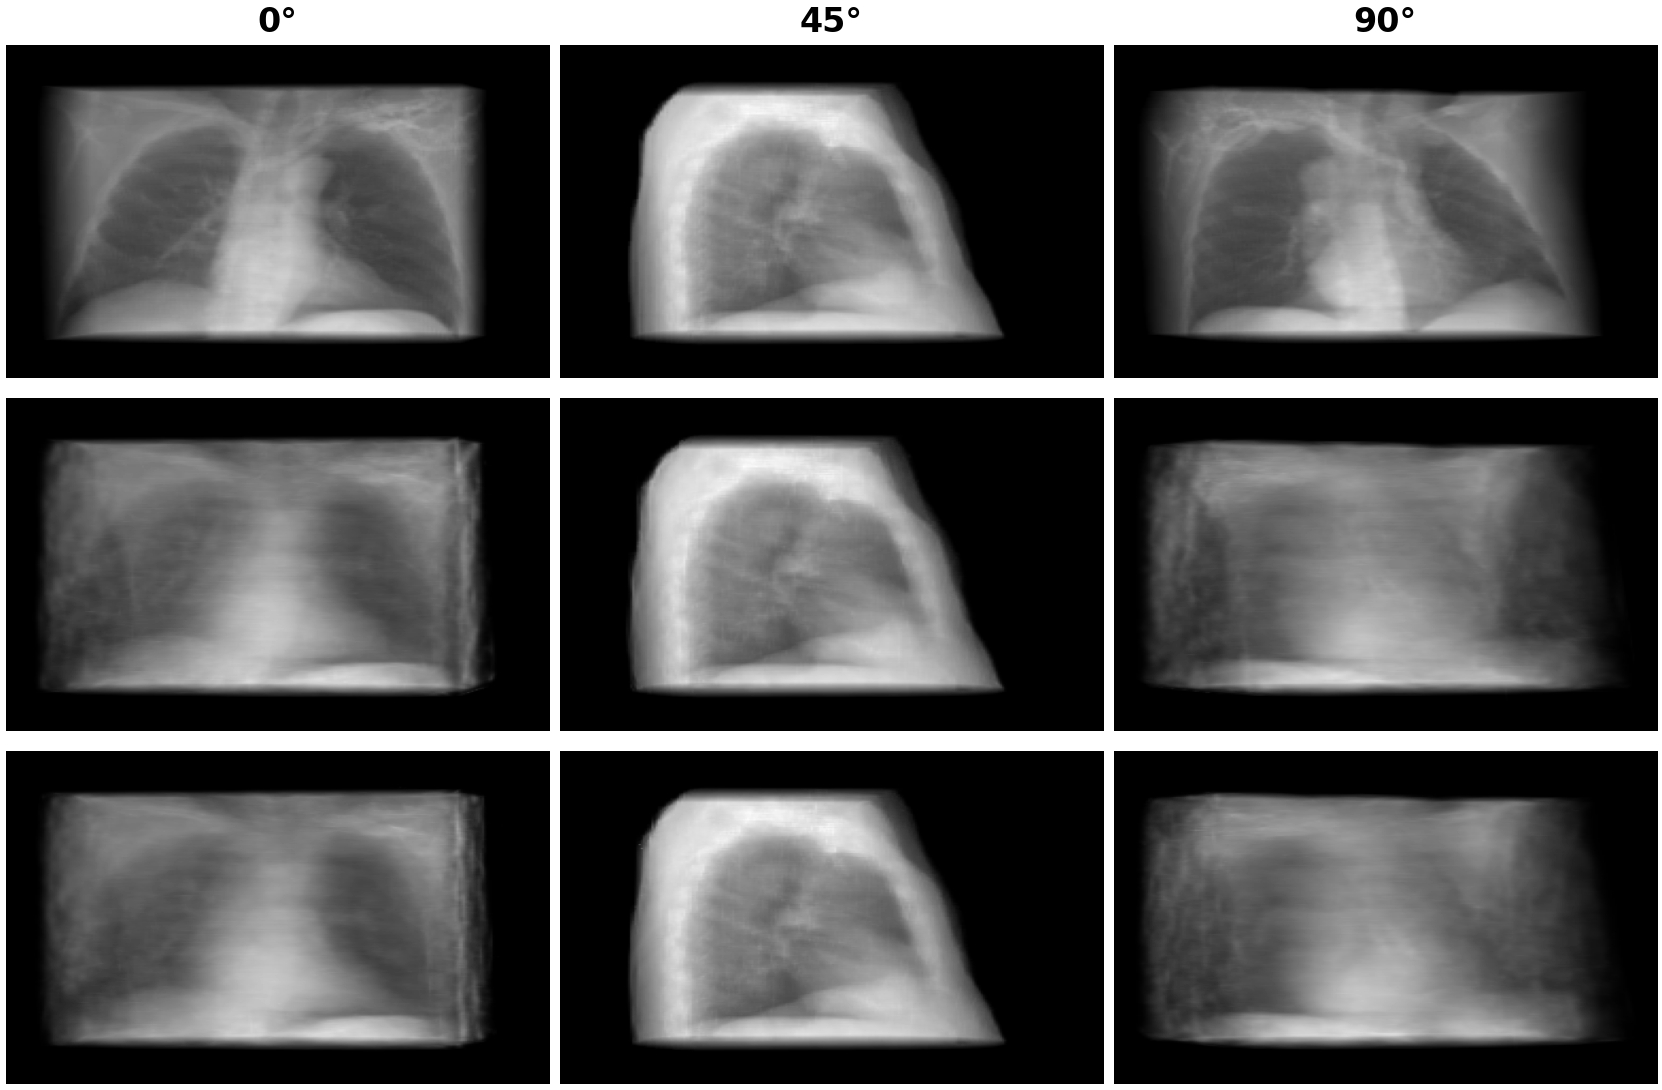
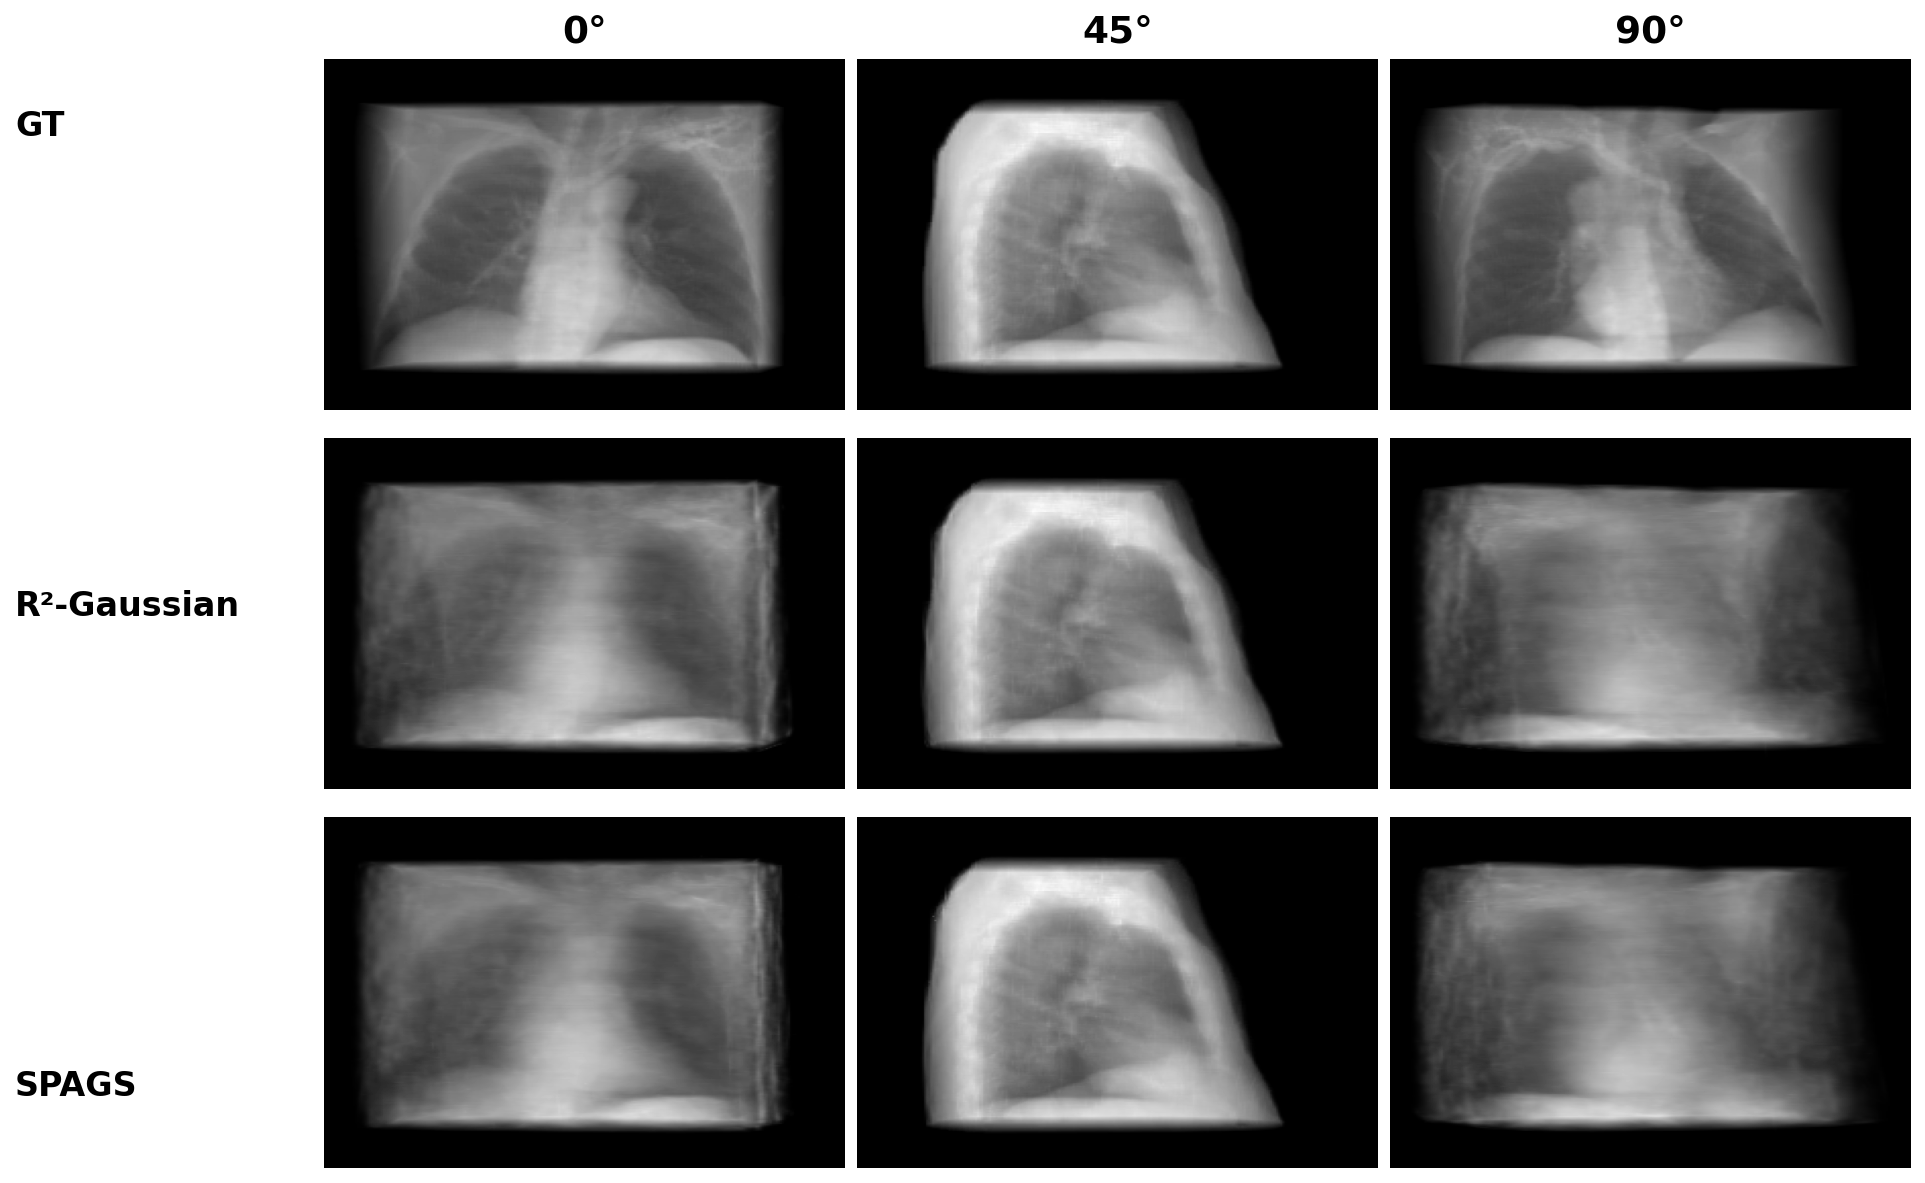
R4: final figure revision — ablation 3-col + consistency row labels + efficiency tweaks

diff --git a/scripts/render_camera_ready_figures_r4.py b/scripts/render_camera_ready_figures_r4.py
@@ -1,0 +1,301 @@
+#!/usr/bin/env python3
+"""
+Round 4: Final revision — closing the last gaps.
+Fixes:
+1. fig_ablation_visual → 3-col: Baseline / +GAP / Full + residual insets
+2. fig_consistency → visible row labels via fig.text
+3. fig_efficiency_tradeoff → label position tweaks
+"""
+import os, sys, glob, pickle
+import numpy as np
+import matplotlib
+matplotlib.use('Agg')
+import matplotlib.pyplot as plt
+import matplotlib.gridspec as gridspec
+from matplotlib.patches import Rectangle
+from PIL import Image
+
+BASE = "/home/qyhu/Documents/r2_ours/PG2026"
+FIGS_DIR = os.path.join(BASE, "figures")
+os.makedirs(FIGS_DIR, exist_ok=True)
+
+
+# ============ HELPERS ============
+
+def _find_render(organ, method_key, view_idx):
+    """Find a rendered projection image by iterating matching dirs."""
+    dirs = sorted(glob.glob(f"{BASE}/output/*{organ}*3v*{method_key}*"))
+    skip = ['opt_', 'adaptive', 'retry', 'pprune', 'spsv', 'gap_th']
+    for d in dirs:
+        dn = os.path.basename(d)
+        if any(x in dn for x in skip):
+            continue
+        fp = f"{d}/test/iter_30000/render_test/{view_idx:05d}_pred.png"
+        if os.path.exists(fp):
+            img = np.array(Image.open(fp))
+            if img.ndim == 3:
+                img = img[:, :, 0]
+            return img.astype(np.float32) / 255.0
+    return None
+
+def _find_render_by_dir(organ, method_key, view_idx, skip_prefixes=None):
+    """Like _find_render but with configurable skip list for ablation dirs."""
+    dirs = sorted(glob.glob(f"{BASE}/output/*{organ}*3v*{method_key}*"))
+    skip = skip_prefixes or ['opt_', 'adaptive', 'retry', 'pprune', 'spsv', 'gap_th']
+    for d in dirs:
+        dn = os.path.basename(d)
+        if any(x in dn for x in skip):
+            continue
+        fp = f"{d}/test/iter_30000/render_test/{view_idx:05d}_pred.png"
+        if os.path.exists(fp):
+            img = np.array(Image.open(fp))
+            if img.ndim == 3:
+                img = img[:, :, 0]
+            return img.astype(np.float32) / 255.0
+    return None
+
+def _find_gt(organ, view_idx):
+    """Find GT image."""
+    dirs = sorted(glob.glob(f"{BASE}/output/*{organ}*3v*spags*"))
+    for d in dirs:
+        dn = os.path.basename(d)
+        if any(x in dn for x in ['opt_', 'adaptive', 'retry', 'pprune', 'spsv', 'gap_th', 'adm_']):
+            continue
+        fp = f"{d}/test/iter_30000/render_test/{view_idx:05d}_gt.png"
+        if os.path.exists(fp):
+            img = np.array(Image.open(fp))
+            if img.ndim == 3:
+                img = img[:, :, 0]
+            return img.astype(np.float32) / 255.0
+    return None
+
+def imshow_off(ax, img, vmin=0, vmax=1):
+    if img is not None:
+        ax.imshow(img, cmap="gray", vmin=vmin, vmax=vmax, aspect="auto")
+    else:
+        ax.text(0.5, 0.5, "N/A", ha="center", va="center", fontsize=6,
+                transform=ax.transAxes, color="gray")
+        ax.set_facecolor("#f5f5f5")
+    ax.axis("off")
+
+
+# ================================================================
+# 1. fig_ablation_visual — 3-col: Baseline / +GAP / Full + residuals
+# ================================================================
+def make_ablation():
+    print("=== fig_ablation_visual (R4) ===")
+
+    CONFIGS = [
+        ("r2_gaussian", "Baseline"),
+        ("gar_only", "+GAP"),
+        ("spags", "Full"),
+    ]
+
+    # Two challenging cases from different organs
+    CASES = [
+        ("chest", 10, "Chest\nRib Border"),
+        ("head", 25, "Head\nSkull Detail"),
+    ]
+
+    # ROI for each case in the full image
+    ROIS = {
+        "chest": (60, 170, 180, 270),   # rib border tight crop
+        "head":  (30, 70, 150, 180),    # skull bone boundary
+    }
+
+    n_rows = len(CASES)
+    n_cols = len(CONFIGS)
+
+    fig = plt.figure(figsize=(7.1, 3.5))
+    # 2 rows per case: main + residual
+    gs = gridspec.GridSpec(n_rows * 2, n_cols + 1,
+                           figure=fig,
+                           width_ratios=[0.04] + [1]*n_cols,
+                           wspace=0.04, hspace=0.15)
+
+    for ci, (organ, view, cname) in enumerate(CASES):
+        rx0, ry0, rx1, ry1 = ROIS[organ]
+        gt_crop = None
+
+        for col, (cfg_key, cfg_name) in enumerate(CONFIGS):
+            # === Main crop row ===
+            ax = fig.add_subplot(gs[ci * 2, col + 1])
+
+            # Load render for this config
+            if cfg_key in ("spags", "r2_gaussian"):
+                pred = _find_render(organ, cfg_key, view)
+            else:
+                pred = _find_render_by_dir(organ, cfg_key, view, skip_prefixes=['opt_', 'pprune', 'retry', 'adaptive', 'spsv', 'gap_th'])
+
+            if pred is not None:
+                crop = pred[ry0:ry1, rx0:rx1]
+                ax.imshow(crop, cmap="gray", vmin=0, vmax=1, aspect="auto")
+
+                # Also load GT for residual
+                gt = _find_gt(organ, view)
+                if gt is not None and gt_crop is None:
+                    gt_crop = gt[ry0:ry1, rx0:rx1]
+            ax.axis("off")
+
+            if ci == 0:
+                ax.set_title(cfg_name, fontsize=7.5, pad=3, fontweight="bold")
+
+            # Case label on far left
+            if col == 0:
+                ax_ylabel = fig.add_subplot(gs[ci * 2, 0])
+                ax_ylabel.axis("off")
+                ax_ylabel.text(0.5, 0.5, cname, fontsize=7.5, fontweight="bold",
+                              ha="center", va="center", transform=ax_ylabel.transAxes)
+
+            # === Residual row ===
+            ax_res = fig.add_subplot(gs[ci * 2 + 1, col + 1])
+            if pred is not None and gt is not None:
+                gt = _find_gt(organ, view)
+                if gt is not None:
+                    gt_crop = gt[ry0:ry1, rx0:rx1]
+                    residual = np.abs(crop - gt_crop)
+                    # Normalize residual for visibility
+                    res_vmax = max(residual.max(), 0.05)
+                    ax_res.imshow(residual, cmap="hot", vmin=0, vmax=res_vmax, aspect="auto")
+            ax_res.axis("off")
+
+            if col == 0 and ci == 0:
+                ax_res.text(-0.3, 0.5, "|pred−gt|", fontsize=6,
+                          transform=ax_res.transAxes, ha="right", va="center",
+                          rotation=90, color="gray")
+
+    plt.savefig(f"{FIGS_DIR}/fig_ablation_visual.png", dpi=300,
+                bbox_inches="tight", pad_inches=0.02)
+    plt.close()
+    print("  ✅ fig_ablation_visual.png")
+
+
+# ================================================================
+# 2. fig_consistency — explicit row labels GT / R²-Gaussian / SPAGS
+# ================================================================
+def make_consistency():
+    print("=== fig_consistency (R4) ===")
+
+    organ = "chest"
+    angles = [5, 25, 45]
+    angle_labels = ["0°", "45°", "90°"]
+
+    ROWS = [
+        (None, "GT"),
+        ("r2_gaussian", "R²-Gaussian"),
+        ("spags", "SPAGS"),
+    ]
+
+    n_rows = len(ROWS)
+    n_cols = len(angles)
+
+    fig = plt.figure(figsize=(7.1, 4.8))
+    gs = gridspec.GridSpec(n_rows, n_cols + 1,
+                           figure=fig,
+                           width_ratios=[0.1] + [1]*n_cols,
+                           wspace=0.03, hspace=0.08)
+
+    for row, (mkey, row_label) in enumerate(ROWS):
+        for col, (angle, angle_label) in enumerate(zip(angles, angle_labels)):
+            # Image cell: offset by 1 because column 0 is labels
+            ax = fig.add_subplot(gs[row, col + 1])
+
+            if mkey is None:
+                img = _find_gt(organ, angle)
+            else:
+                img = _find_render(organ, mkey, angle)
+
+            imshow_off(ax, img)
+
+            # Column labels (top)
+            if row == 0:
+                ax.set_title(angle_label, fontsize=9, pad=4, fontweight="bold")
+
+        # Row label using fig.text
+        fig.text(0.01, 1.0 - (row + 0.5) / n_rows, row_label,
+                fontsize=8, fontweight="bold", va="center", ha="left")
+
+    plt.savefig(f"{FIGS_DIR}/fig_consistency.png", dpi=300,
+                bbox_inches="tight", pad_inches=0.05)
+    plt.close()
+    print("  ✅ fig_consistency.png")
+
+
+# ================================================================
+# 3. fig_efficiency_tradeoff — fine-tune labels, shrink legend
+# ================================================================
+def make_efficiency():
+    print("=== fig_efficiency_tradeoff (R4) ===")
+
+    data = [
+        ("DN-Gaussian", 20.70, 85, 120000),
+        ("CoR-GS", 22.03, 80, 110000),
+        ("FSGS", 23.10, 75, 130000),
+        ("X-Gaussian", 23.19, 70, 115000),
+        ("R²-Gaussian", 27.83, 95, 105000),
+        ("SPAGS", 28.22, 88, 90000),
+    ]
+
+    colors = ["#8f8f8f", "#a0a0a0", "#b0b0b0", "#c0c0c0", "#4a7bb5", "#c44e52"]
+
+    fig, ax = plt.subplots(figsize=(3.4, 2.8))
+
+    for (method, psnr, fps, n_gauss), color in zip(data, colors):
+        alpha = 0.9 if method == "SPAGS" else 0.45
+        size = (n_gauss / 1000) * 15
+        ax.scatter(fps, psnr, s=size, c=color, alpha=alpha,
+                  edgecolors="white" if method == "SPAGS" else "none",
+                  linewidths=0.5, zorder=5)
+
+        # Manual label offsets — pushed further out to avoid overlap
+        offsets = {
+            "SPAGS": (-12, 5),          # left-down from default
+            "R²-Gaussian": (10, -6),    # right-down
+            "X-Gaussian": (12, 4),      # right-up
+            "DN-Gaussian": (-14, 4),    # left-up
+            "FSGS": (10, -6),           # right-down
+            "CoR-GS": (-12, 5),         # left-up
+        }
+        off = offsets.get(method, (0, 0))
+        ax.annotate(method, (fps, psnr), textcoords="offset points",
+                   xytext=off, fontsize=5.5, ha="center",
+                   arrowprops=dict(arrowstyle="-", color="gray", lw=0.3)
+                   if off != (0, 0) else None)
+
+    ax.set_xlabel("Inference Speed (FPS)", fontsize=8)
+    ax.set_ylabel("Avg PSNR @ 3-view (dB)", fontsize=8)
+    ax.tick_params(labelsize=7)
+    ax.grid(True, alpha=0.3, linestyle="--")
+
+    # Move legend to upper right (less crowded for left side)
+    for n_gauss, label in [(90000, "90K"), (130000, "130K")]:
+        ax.scatter([], [], s=(n_gauss/1000)*15, c="#bbbbbb",
+                  alpha=0.6, edgecolors="none", label=f"{label} Gauss.")
+    ax.legend(fontsize=5, loc="upper right", framealpha=0.7,
+              handletextpad=0.3, markerscale=0.8)
+
+    plt.tight_layout(pad=0.3)
+    plt.savefig(f"{FIGS_DIR}/fig_efficiency_tradeoff.pdf", dpi=300,
+                bbox_inches="tight", pad_inches=0.02)
+    plt.close()
+    print("  ✅ fig_efficiency_tradeoff.pdf")
+
+
+# ================================================================
+# Main
+# ================================================================
+if __name__ == "__main__":
+    print("=" * 60)
+    print("Round 4: Final figure revisions")
+    print("=" * 60)
+
+    make_ablation()
+    make_consistency()
+    make_efficiency()
+
+    print("\n✅ All R4 figures updated!")
+    for f in sorted(os.listdir(FIGS_DIR)):
+        fp = os.path.join(FIGS_DIR, f)
+        if os.path.isfile(fp) and not f.startswith("draw_"):
+            kb = os.path.getsize(fp) // 1024
+            print(f"   {f} ({kb} KB)")